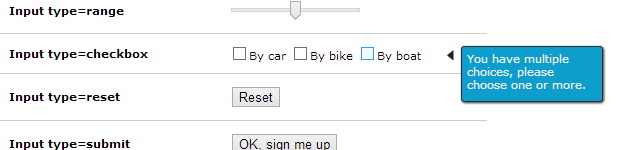
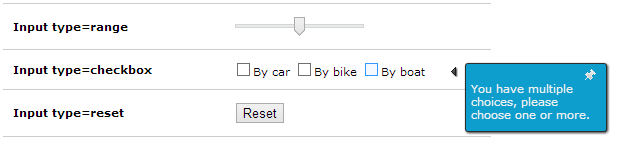
Added information about the pushpin

Changed region(s): [[0.0, 0.2933, 0.9775, 1.0], [0.0, 0.0, 0.7942, 0.1333], [0.0, 0.1333, 0.7942, 0.24]]

diff --git a/README.md b/README.md
@@ -4,6 +4,7 @@ jQuery-FormHelp
 A jQuery utility plugin providing contextual help on input fields in a form.
 
 ##Changelog
+* [v0.1.4](https://github.com/invetek/jquery-formhelp/tree/0.1.3) - Added a pushpin in the helpbox
 * [v0.1.3](https://github.com/invetek/jquery-formhelp/tree/0.1.3) - No extra functionality, added Grunt as task runner
 * [v0.1.2](https://github.com/invetek/jquery-formhelp/tree/0.1.2) - Don't use this version, it doesn't have a /dist directory
 * [v0.1.1](https://github.com/invetek/jquery-formhelp/tree/0.1.1) - Added class prefix option
@@ -68,6 +69,7 @@ in case of buttons, radio elements and checkboxes) and the helptext shows up in 
 ```javascript
 $.formHelp({
     classPrefix: 'myprefix' //Choose any prefix you like
+    pushpinEnabled: true //Enable or disable the little pushpin at top right
 });
 ```
 
@@ -82,6 +84,9 @@ used by the plugin will be prefixed. Don't forget to add the prefix to the helpt
 </span>
 ```
 
+When the pushpin is enabled the user can click on it to keep the helpbox from disappearing
+when an element loses focus. That way the user can ctrl-c/v the helptext for example.
+![Screenshot of a pushpin](/doc/screenshot_3.png)
 
 ###Triggering
 The type of the input element determines on what event the helpbox shows up. The main
